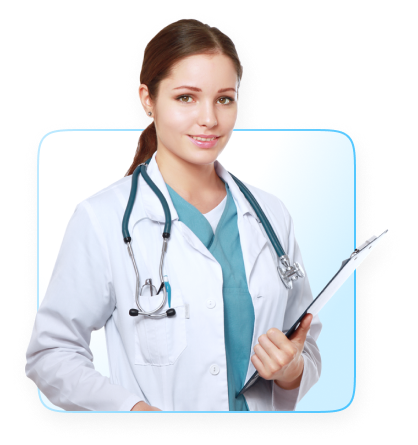
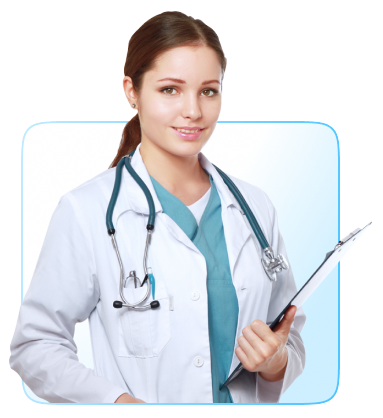
How Our Platfrom works section completed

Changed region(s): [[0.0287, 0.0, 0.9765, 0.9952]]

diff --git a/index.html b/index.html
@@ -574,8 +574,10 @@
           <img src="./images/Svg/illustration-2.svg" alt="" />
         </div>
         <div class="row service-box position-relative">
-          <h2>Top <span class="text-gradient">services</span> we offer</h2>
-          <p class="service-des">
+          <h2 class="sec-title">
+            Top <span class="text-gradient">services</span> we offer
+          </h2>
+          <p class="sec-des">
             In today’s fast-paced world, your health deserves the utmost
             attention and convenience. That’s why HealNet offers a suite of
             integrated services designed to cater to your healthcare needs
@@ -790,8 +792,143 @@
         </div>
       </div>
     </section>
-
     <!-- =============== Story End ================ -->
+    <!-- =============== work Start ================ -->
+    <section class="py-5 work-sec">
+      <div class="container">
+        <h2 class="sec-title">
+          How <span class="text-gradient">our platform</span> works
+        </h2>
+        <p class="sec-des">
+          Navigating your healthcare journey with HealNet is seamless. Just
+          follow these steps mentioned below to proceed with your selected
+          services. You can also see our FAQ section for more guidance:
+        </p>
+        <div class="row justify-content-center align-items-center mt-5 pt-5">
+          <div class="col-10 col-lg-5 order-3 order-lg-0 mt-4 mt-lg-0">
+            <div class="work-content-box">
+              <div class="work">
+                <div
+                  class="work-title d-flex justify-content-start align-items-center"
+                >
+                  <div class="work-num me-4">1</div>
+                  <h3>Create Your Profile</h3>
+                </div>
+                <div
+                  class="work-des d-flex justify-content-start align-items-start"
+                >
+                  <div class="line-box">
+                    <svg
+                      width="2"
+                      height="117"
+                      viewBox="0 0 2 117"
+                      fill="none"
+                      xmlns="http://www.w3.org/2000/svg"
+                    >
+                      <path
+                        d="M1 1L1.00001 116"
+                        stroke="#B6E6FF"
+                        stroke-width="2"
+                        stroke-linecap="round"
+                        stroke-dasharray="8 8"
+                      />
+                    </svg>
+                  </div>
+                  <p>
+                    Sign up and fill in your medical history securely. Setting
+                    up your profile this way would ensure that you stay
+                    up-to-date with your medical processes.
+                  </p>
+                </div>
+              </div>
+              <div class="work">
+                <div
+                  class="work-title d-flex justify-content-start align-items-center"
+                >
+                  <div class="work-num me-4">2</div>
+                  <h3>Choose Your Service</h3>
+                </div>
+                <div
+                  class="work-des d-flex justify-content-start align-items-start"
+                >
+                  <div class="line-box">
+                    <svg
+                      width="2"
+                      height="117"
+                      viewBox="0 0 2 117"
+                      fill="none"
+                      xmlns="http://www.w3.org/2000/svg"
+                    >
+                      <path
+                        d="M1 1L1.00001 116"
+                        stroke="#B6E6FF"
+                        stroke-width="2"
+                        stroke-linecap="round"
+                        stroke-dasharray="8 8"
+                      />
+                    </svg>
+                  </div>
+                  <p>
+                    Sign up and fill in your medical history securely. Setting
+                    up your profile this way would ensure that you stay
+                    up-to-date with your medical processes.
+                  </p>
+                </div>
+              </div>
+              <div class="work">
+                <div
+                  class="work-title d-flex justify-content-start align-items-center"
+                >
+                  <div class="work-num me-4">3</div>
+                  <h3>Meet Your Doctor</h3>
+                </div>
+                <div
+                  class="work-des d-flex justify-content-start align-items-start"
+                >
+                  <div class="line-box">
+                    <svg
+                      class="visually-hidden"
+                      width="2"
+                      height="117"
+                      viewBox="0 0 2 117"
+                      fill="none"
+                      xmlns="http://www.w3.org/2000/svg"
+                    >
+                      <path
+                        d="M1 1L1.00001 116"
+                        stroke="#B6E6FF"
+                        stroke-width="2"
+                        stroke-linecap="round"
+                        stroke-dasharray="8 8"
+                      />
+                    </svg>
+                  </div>
+                  <p>
+                    Have a virtual consultation with one of our certified
+                    specialists, or go for a physical visit to the doctor in
+                    case you opted for a physical check-up.
+                  </p>
+                </div>
+              </div>
+            </div>
+          </div>
+          <div class="col-10 col-lg-5 order-2 order-lg-0">
+            <div class="work-img-box">
+              <div
+                class="main-work-img d-flex justify-content-center justify-content-lg-end align-items-center"
+              >
+                <img
+                  class="img-fluid"
+                  src="./images/girls-doctor-1.png"
+                  alt=""
+                />
+              </div>
+            </div>
+          </div>
+        </div>
+      </div>
+    </section>
+    <!-- =============== work End ================ -->
 
     <script src="./bootstrap/js/bootstrap.bundle.js"></script>
     <script src="./Js/script.js"></script>

diff --git a/css/style.css b/css/style.css
@@ -38,6 +38,7 @@
 body {
   font-family: "Manrope", sans-serif;
   background-color: var(--Neutrals-50);
+  overflow-x: hidden;
 }
 li {
   list-style: none;
@@ -54,6 +55,21 @@ button {
   border: none;
 }
 
+.sec-title {
+  font-size: 2.3rem;
+  font-weight: 700;
+  text-align: center;
+  margin-bottom: 2rem;
+}
+.sec-des {
+  font-size: 1rem;
+  font-weight: 500;
+  color: var(--Neutrals-300);
+  text-align: center;
+  width: 60%;
+  margin-bottom: 5rem;
+  margin: 0 auto;
+}
 .custom-btn {
   padding: 1rem 1.5rem;
   background: var(--linier-blue-gradient);
@@ -291,21 +307,6 @@ button.custom-btn a {
 }
 /* =========== Appointment Styling End ============= */
 /* =========== Services Styling Start ============= */
-.service-box h2 {
-  font-size: 2.3rem;
-  font-weight: 700;
-  text-align: center;
-  margin-bottom: 2rem;
-}
-.service-box p.service-des {
-  font-size: 1rem;
-  font-weight: 500;
-  color: var(--Neutrals-300);
-  text-align: center;
-  width: 60%;
-  margin-bottom: 5rem;
-  margin: 0 auto;
-}
 .service {
   padding: 0.12rem;
   background: linear-gradient(100deg, rgb(197, 236, 255), rgb(149, 221, 255));
@@ -332,11 +333,18 @@ button.custom-btn a {
   position: absolute;
   top: 180px;
   left: -60px;
+  z-index: 11;
+  animation: moving-box-4 1s linear infinite alternate;
 }
 .service-sec .svg-box-2 {
   position: absolute;
-  top: 180px;
+  bottom: 0;
   right: -60px;
+  animation: moving-box-5 1s linear infinite alternate;
+}
+.service-sec .svg-box-2 img {
+  -webkit-transform: scaleX(-1);
+  transform: scaleX(-1);
 }
 /* =========== Services Styling End ============= */
 /* =========== Story Styling Start ============= */
@@ -372,6 +380,38 @@ button.custom-btn a {
   font-weight: 700;
 }
 /* =========== Story Styling End ============= */
+/* =========== Work Styling Start ============= */
+.work-title .work-num {
+  min-width: 52px;
+  min-height: 52px;
+  border-radius: 100%;
+  background: var(--linier-blue-gradient);
+  display: flex;
+  justify-content: center;
+  align-items: center;
+  color: #fff;
+  font-size: 2rem;
+  font-weight: 700;
+}
+.work-title h3 {
+  display: flex;
+  justify-content: center;
+  align-items: center;
+  font-size: 2rem;
+  color: var(--Neutrals-900);
+  font-weight: 600;
+}
+.work-des p {
+  font-size: 14px;
+  color: var(--Neutrals-500);
+  font-weight: 500;
+  padding-left: 3.2rem;
+  line-height: 24px;
+}
+.line-box {
+  margin-left: 1.58rem;
+}
+/* =========== Work Styling End ============= */
 /* =========== Animation Start ============= */
 @keyframes moving-box-1 {
   0% {
@@ -395,6 +435,22 @@ button.custom-btn a {
   }
   100% {
     bottom: -75px;
+  }
+}
+@keyframes moving-box-4 {
+  0% {
+    left: -60px;
+  }
+  100% {
+    left: -70px;
+  }
+}
+@keyframes moving-box-5 {
+  0% {
+    right: -60px;
+  }
+  100% {
+    right: -70px;
   }
 }
 /* =========== Animation End ============= */
@@ -434,6 +490,9 @@ button.custom-btn a {
   .appointment-box {
     bottom: 160px;
   }
+  .sec-des {
+    width: 100%;
+  }
 }
 @media (max-width: 556.98px) {
   .appointment-box {
@@ -447,6 +506,12 @@ button.custom-btn a {
     margin-top: 1rem;
     justify-content: center;
     align-items: center;
+  }
+  .work-title .work-num {
+    font-size: 1.6rem;
+  }
+  .work-title h3 {
+    font-size: 1.6rem;
   }
 }
 @media (max-width: 499.98px) {
